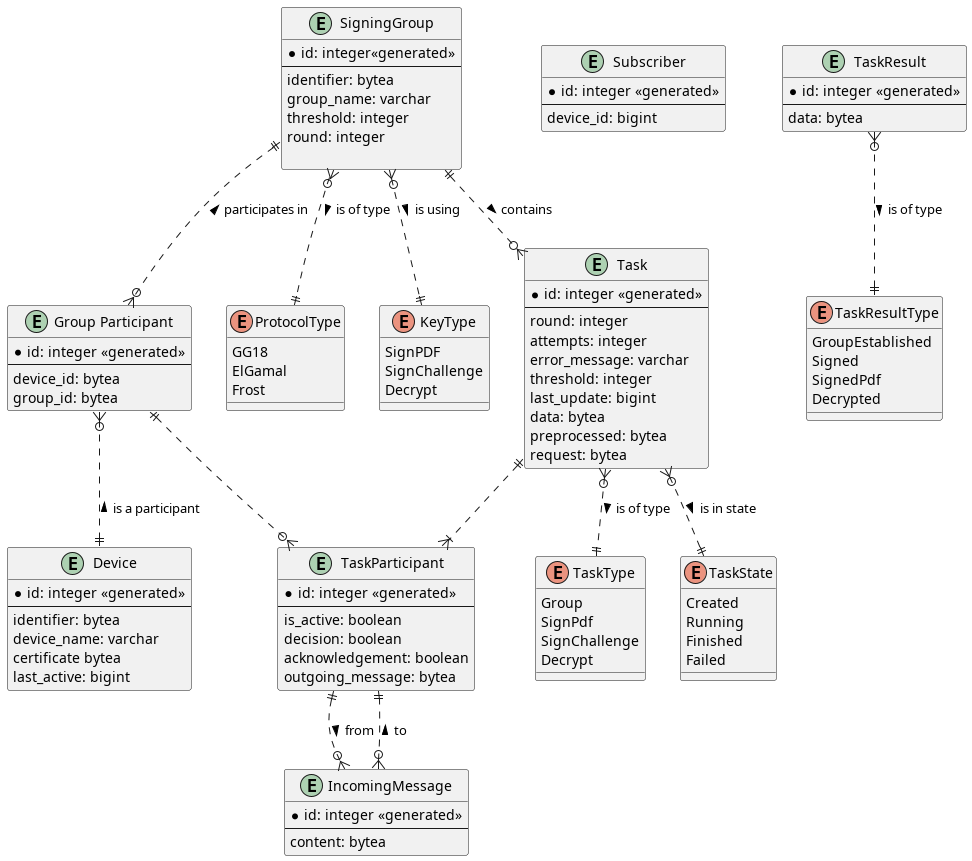
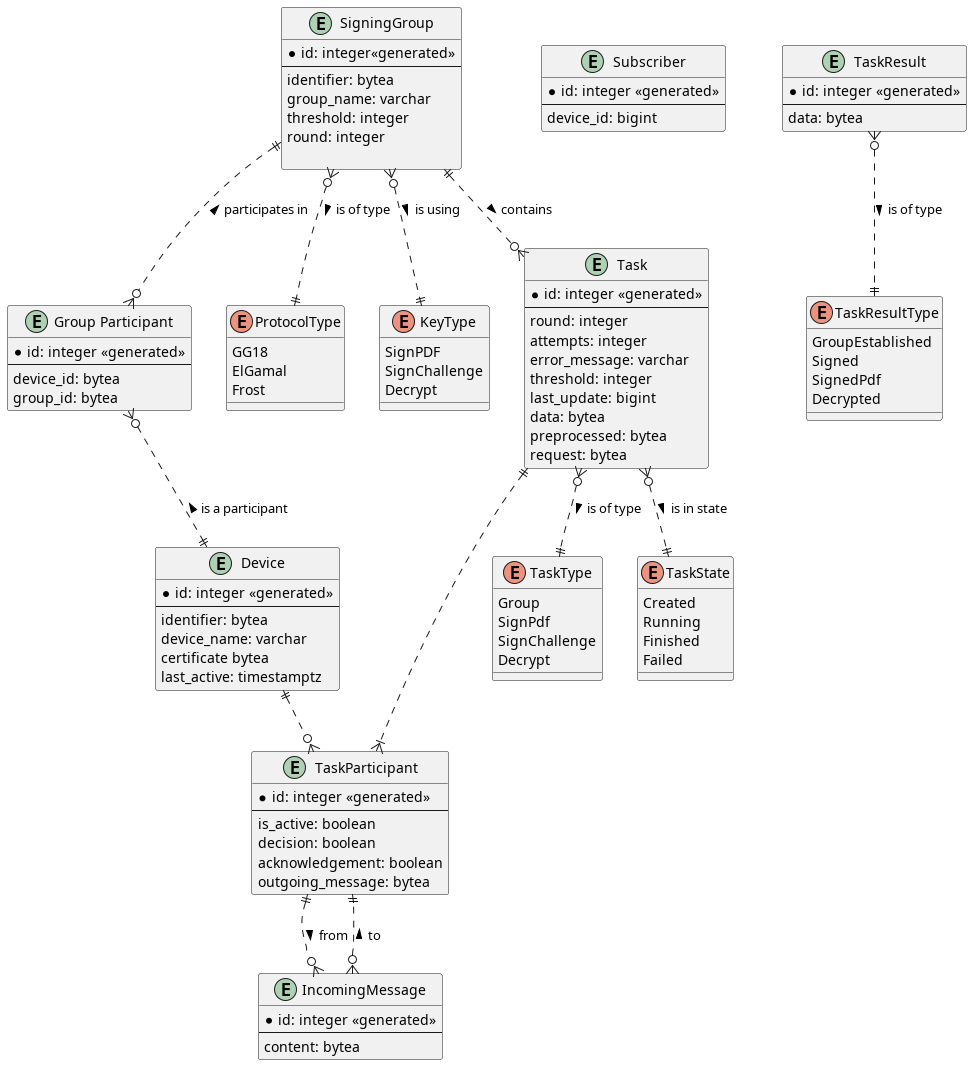
refactor: link TaskParticipant with Device directly

diff --git a/src/persistence/repository/task.rs b/src/persistence/repository/task.rs
@@ -8,8 +8,8 @@ use super::utils::NameValidator;
 use crate::persistence::{
     enums::{KeyType, ProtocolType, TaskState, TaskType},
     error::PersistenceError,
-    models::{GroupParticipant, NewGroupParticipant, NewTask, NewTaskParticipant, Task},
-    schema::{groupparticipant, task, taskparticipant},
+    models::{NewTask, NewTaskParticipant, Task},
+    schema::{task, taskparticipant},
 };
 
 pub async fn create_task<Conn>(
@@ -47,31 +47,16 @@ where
         protocol_type,
     };
 
-    // TODO: either use this function just for group tasks, or fetch group participants from the DB by default.
-    let group_participants: Vec<NewGroupParticipant> = devices
-        .into_iter()
-        .map(|device_id| NewGroupParticipant {
-            device_id,
-            group_id: None,
-        })
-        .collect();
-
-    let group_participants: Vec<GroupParticipant> = diesel::insert_into(groupparticipant::table)
-        .values(group_participants)
-        .returning(GroupParticipant::as_returning())
-        .load(connection)
-        .await?;
-
     let task: Task = diesel::insert_into(task::table)
         .values(task)
         .returning(Task::as_returning())
         .get_result(connection)
         .await?;
 
-    let new_task_participants: Vec<NewTaskParticipant> = group_participants
+    let new_task_participants: Vec<NewTaskParticipant> = devices
         .into_iter()
-        .map(|group_participant| NewTaskParticipant {
-            group_participant_id: group_participant.id,
+        .map(|device_id| NewTaskParticipant {
+            device_id,
             task_id: &task.id,
             decision: None,
             acknowledgment: None,
@@ -85,6 +70,7 @@ where
     Ok(task)
 }
 
+// TODO: join with create_task
 pub async fn create_group_task<Conn>(
     connection: &mut Conn,
     name: &str,
@@ -130,24 +116,10 @@ where
         .get_result(connection)
         .await?;
 
-    let group_participants: Vec<NewGroupParticipant> = devices
+    let new_task_participants: Vec<NewTaskParticipant> = devices
         .into_iter()
-        .map(|device_id| NewGroupParticipant {
+        .map(|device_id| NewTaskParticipant {
             device_id,
-            group_id: None,
-        })
-        .collect();
-
-    let group_participants: Vec<GroupParticipant> = diesel::insert_into(groupparticipant::table)
-        .values(group_participants)
-        .returning(GroupParticipant::as_returning())
-        .load(connection)
-        .await?;
-
-    let new_task_participants: Vec<NewTaskParticipant> = group_participants
-        .into_iter()
-        .map(|group_participant| NewTaskParticipant {
-            group_participant_id: group_participant.id,
             task_id: &task.id,
             decision: None,
             acknowledgment: None,

diff --git a/src/persistence/repository/group.rs b/src/persistence/repository/group.rs
@@ -4,8 +4,11 @@ use diesel::{pg::Pg, result::Error::NotFound, ExpressionMethods, QueryDsl, Selec
 use diesel_async::{AsyncConnection, RunQueryDsl};
 use uuid::Uuid;
 
+use crate::persistence::models::NewGroupParticipant;
+use crate::persistence::schema::device;
 use crate::persistence::schema::groupparticipant;
 use crate::persistence::schema::signinggroup;
+use crate::persistence::schema::task;
 use crate::persistence::{
     enums::{KeyType, ProtocolType},
     error::PersistenceError,
@@ -56,18 +59,27 @@ where
         .get_result(connection)
         .await?;
 
-    // group participants already exist as they were participating in the task
-    // overwrite null values with the correct group_id
-    let group_participant_alias = diesel::alias!(groupparticipant as group_participant_alias);
-    let group_participant_ids = group_participant_alias
-        .inner_join(taskparticipant::table)
-        .filter(taskparticipant::task_id.eq(Some(&group_task_id)))
-        .select(group_participant_alias.field(groupparticipant::id));
-    diesel::update(groupparticipant::table)
-        .filter(groupparticipant::id.eq_any(group_participant_ids))
-        .set(groupparticipant::group_id.eq(Some(group.id)))
+    let device_ids: Vec<Vec<u8>> = taskparticipant::table
+        .inner_join(task::table)
+        .filter(task::id.eq(group_task_id))
+        .inner_join(device::table)
+        .select(device::id)
+        .load(connection)
+        .await?;
+    let group_participants: Vec<NewGroupParticipant> = device_ids
+        .iter()
+        .map(|device_id| NewGroupParticipant {
+            device_id,
+            group_id: group.id,
+        })
+        .collect();
+    let expected_affected_row_count = group_participants.len();
+    let affected_row_count = diesel::insert_into(groupparticipant::table)
+        .values(group_participants)
         .execute(connection)
         .await?;
+    // TODO: consider propagating the check into the prod build: assert -> Err(...)
+    assert_eq!(affected_row_count, expected_affected_row_count);
     Ok(group)
 }
 

diff --git a/src/persistence/schema.rs b/src/persistence/schema.rs
@@ -84,8 +84,8 @@ diesel::table! {
 diesel::table! {
     taskparticipant (id) {
         id -> Int4,
-        group_participant_id -> Nullable<Int4>,
-        task_id -> Nullable<Uuid>,
+        device_id -> Bytea,
+        task_id -> Uuid,
         decision -> Nullable<Bool>,
         acknowledgment -> Nullable<Bool>,
     }
@@ -106,7 +106,7 @@ diesel::table! {
 diesel::joinable!(groupparticipant -> device (device_id));
 diesel::joinable!(groupparticipant -> signinggroup (group_id));
 diesel::joinable!(task -> signinggroup (group_id));
-diesel::joinable!(taskparticipant -> groupparticipant (group_participant_id));
+diesel::joinable!(taskparticipant -> device (device_id));
 diesel::joinable!(taskparticipant -> task (task_id));
 diesel::joinable!(taskresult -> signinggroup (signing_group_id));
 

diff --git a/src/persistence/models.rs b/src/persistence/models.rs
@@ -85,7 +85,7 @@ pub struct NewGroup<'a> {
 #[diesel(table_name=groupparticipant)]
 pub struct NewGroupParticipant<'a> {
     pub device_id: &'a [u8],
-    pub group_id: Option<i32>,
+    pub group_id: i32,
 }
 
 #[derive(Queryable, Selectable)]
@@ -100,7 +100,7 @@ pub struct GroupParticipant {
 #[derive(Insertable)]
 #[diesel(table_name=taskparticipant)]
 pub struct NewTaskParticipant<'a> {
-    pub group_participant_id: i32,
+    pub device_id: &'a [u8],
     pub task_id: &'a Uuid,
     pub decision: Option<bool>,
     pub acknowledgment: Option<bool>,

diff --git a/src/persistence/repository/device.rs b/src/persistence/repository/device.rs
@@ -28,9 +28,8 @@ pub async fn get_task_devices<Conn>(
 where
     Conn: AsyncConnection<Backend = Pg>,
 {
-    // TODO: link taskparticipant with device directly
     let devices: Vec<Device> = taskparticipant::table
-        .inner_join(groupparticipant::table.inner_join(device::table))
+        .inner_join(device::table)
         .inner_join(task::table)
         .filter(task::id.eq(task_id))
         .select(Device::as_returning())
